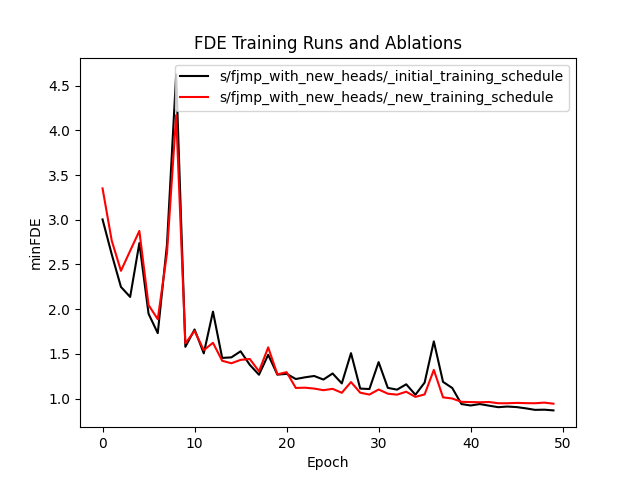
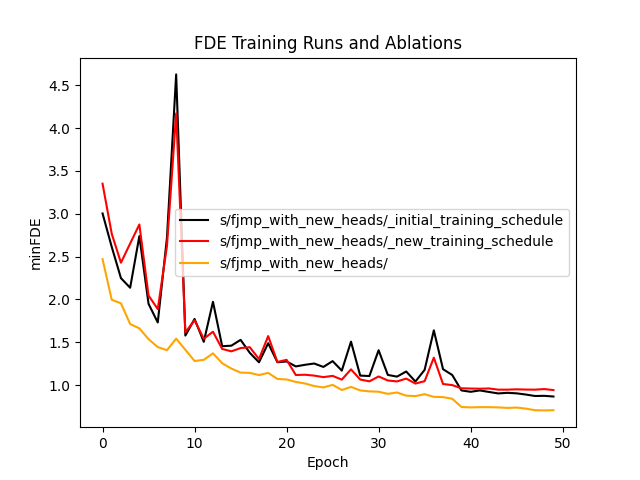
nothing

diff --git a/fjmp.py b/fjmp.py
@@ -301,8 +301,9 @@ class FJMP(torch.nn.Module):
         hvd.broadcast_parameters(self.state_dict(), root_rank=0)
         hvd.broadcast_optimizer_state(optimizer, root_rank=0)
         
+        inner_loops = 0
+        outer_loops = 0
         for epoch in range(start_epoch, self.max_epochs + 1):   
-            random.seed(0)
             # this shuffles the training set every epoch         
             train_loader.sampler.set_epoch(int(epoch))
             
@@ -339,9 +340,7 @@ class FJMP(torch.nn.Module):
             
             tot = 0
             accum_gradients = {}
-
-            inner_loops = 0
-            outer_loops = 0
+            torch.manual_seed(0)
             for i, data in enumerate(train_loader):      
                 #random.seed(hvd.rank() * 100 + i * 10)
                 # get data dictionary for processing batch
@@ -383,7 +382,7 @@ class FJMP(torch.nn.Module):
                         # produces dictionary of results
                         res = self.forward(dd["scene_idxs"], dgl_graph, stage_1_graph, ig_dict, dd['batch_idxs'], dd["batch_idxs_edges"], actor_ctrs, prop_ground_truth=prop_ground_truth, eval=False)
                         
-                        steps_before_replan = random.randint(1, self.prediction_steps) #how much we step forward for this rollout (the rest of the prediction would in real life be thrown away, but we still attend to it in training)
+                        #steps_before_replan = torch.randint(1, self.prediction_steps + 1, (1,)).item() #how much we step forward for this rollout (the rest of the prediction would in real life be thrown away, but we still attend to it in training)
                         #print(hvd.rank(), steps_before_replan)
                         loss_dict = self.get_loss(dgl_graph, dd['batch_idxs'], res, dd['agenttypes'], has_preds, gt_locs, gt_psirads, gt_vels, dd['batch_size'], dd["ig_labels"], epoch, steps = steps_before_replan)
                         
@@ -654,7 +653,7 @@ class FJMP(torch.nn.Module):
         tot = 0
         with torch.no_grad():
             tot_log = self.num_val_samples // (self.batch_size * hvd.size())
-            random.seed(0)
+            torch.manual_seed(0)
             for i, data in enumerate(val_loader):
                 dd = self.process(data)
 
@@ -694,7 +693,7 @@ class FJMP(torch.nn.Module):
                         # produces dictionary of results
                         res = self.forward(dd["scene_idxs"], dgl_graph, stage_1_graph, ig_dict, dd['batch_idxs'], dd["batch_idxs_edges"], actor_ctrs, prop_ground_truth=0., eval=True)
                         
-                        steps_before_replan = random.randint(1, config['prediction_steps']) #how much we step forward for this rollout (the rest of the prediction would in real life be thrown away, but we still attend to it in training)
+                        steps_before_replan = torch.randint(1, self.prediction_steps + 1, (1,)).item() #how much we step forward for this rollout (the rest of the prediction would in real life be thrown away, but we still attend to it in training)
                         loss_dict = self.get_loss(dgl_graph, dd['batch_idxs'], res, dd['agenttypes'], has_preds, gt_locs, gt_psirads, gt_vels, dd['batch_size'], dd["ig_labels"], epoch, steps = steps_before_replan)
                         
                         sum_timesteps_across_rollouts += (self.prediction_steps - start_timestep) # this term deals with the fact that some runs will attend over the same timestep multiple times. the sum of timesteps predicted is saved.

diff --git a/training_curve_plotter.py b/training_curve_plotter.py
@@ -3,7 +3,7 @@ import os
 import matplotlib.pyplot as plt
 
 # Define an array of file names
-file_names = ['logs/fjmp_with_new_heads/log_initial_training_schedule','logs/fjmp_with_new_heads/log_new_training_schedule']
+file_names = ['logs/fjmp_with_new_heads/log_initial_training_schedule','logs/fjmp_with_new_heads/log_new_training_schedule', 'logs/fjmp_with_new_heads/log']
 
 # Define a list of colors to use for each file
 colors = ['black', 'red', 'orange', 'green', 'blue', 'purple']
